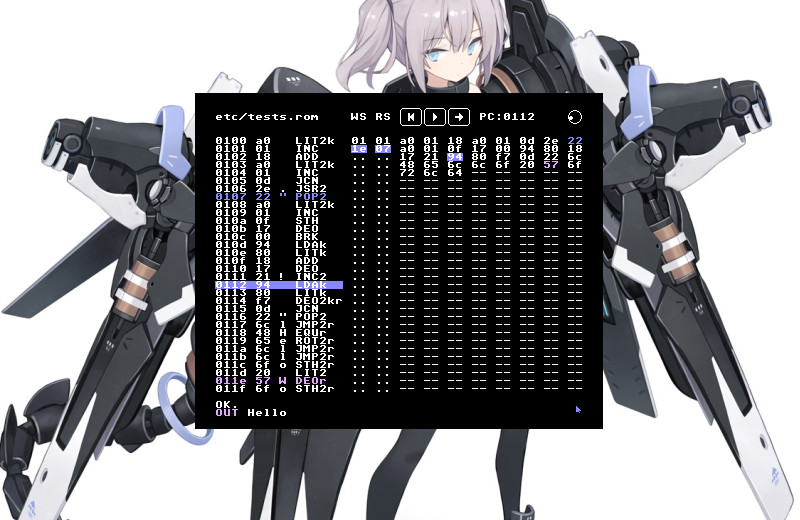
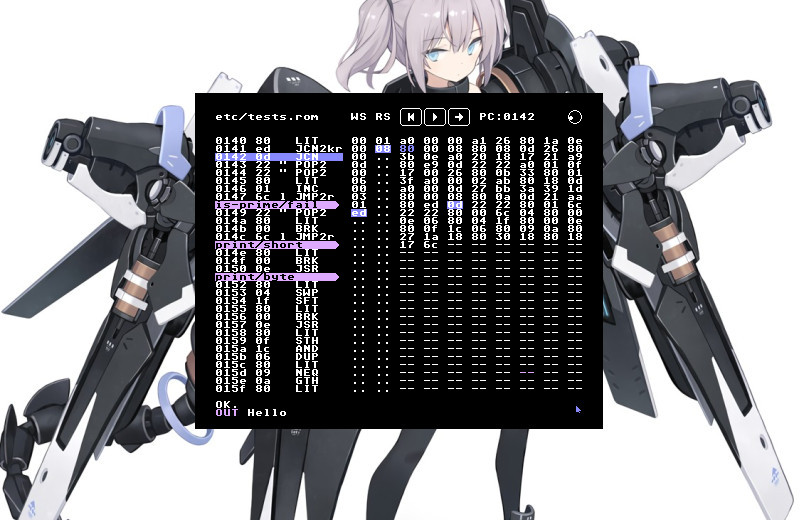
*

Changed region(s): [[0.25, 0.2769, 0.4688, 0.7692], [0.5, 0.2462, 0.75, 0.4923]]

diff --git a/site/libraries.html b/site/libraries.html
@@ -2,7 +2,7 @@
 <meta charset="utf-8"/><meta name="viewport" content="width=device-width, inital-scale=1"/><link href="../links/main.css" type="text/css" rel="stylesheet"/><link href="../media/services/icon.png" type="image/png" rel="shortcut icon"/>
 <title>XXIIVV &mdash; libraries</title></head><body>
 <header><a href="home.html"><img alt="XXIIVV" src="../media/icon/logo.svg"></a></header>
-<nav><ul><li><a href="physical.html">physical</a></li><li><a href="photography.html">photography</a></li><li><a href="illustration.html">illustration</a></li><li><a href="software.html" class="parent">software</a></li></ul><ul><li><a href="roms.html">roms</a></li><li><a href="tools.html">tools</a></li><li><a href="libraries.html" class="self">libraries</a></li><li><a href="formats.html">formats</a></li><li><a href="games.html">games</a></li><li><a href="toys.html">toys</a></li><li><a href="mobile.html">mobile</a></li><li><a href="unreleased.html">unreleased</a></li></ul><ul><li><a href="theme.html">theme</a></li><li><a href="snarf.html">snarf</a></li><li><a href="metadata.html">metadata</a></li><li><a href="manifest.html">manifest</a></li></ul></nav><main><h2>A collection of Varvara application support standards.</h2>
+<nav><ul><li><a href="physical.html">physical</a></li><li><a href="photography.html">photography</a></li><li><a href="illustration.html">illustration</a></li><li><a href="software.html" class="parent">software</a></li></ul><ul><li><a href="roms.html">roms</a></li><li><a href="tools.html">tools</a></li><li><a href="libraries.html" class="self">libraries</a></li><li><a href="formats.html">formats</a></li><li><a href="games.html">games</a></li><li><a href="toys.html">toys</a></li><li><a href="mobile.html">mobile</a></li><li><a href="unreleased.html">unreleased</a></li></ul><ul><li><a href="theme.html">theme</a></li><li><a href="snarf.html">snarf</a></li><li><a href="symbols.html">symbols</a></li><li><a href="metadata.html">metadata</a></li><li><a href="manifest.html">manifest</a></li></ul></nav><main><h2>A collection of Varvara application support standards.</h2>
 
 <p>This is a collection of various libraries used in the <a href='roms.html'>Varvara roms</a>.</p>
 <h2>Theme files are the interface customization standard for Varvara software.</h2>
@@ -82,6 +82,18 @@ JMP2r
 </pre>
 
 <q>Snarf is the term for Copy on the <a href='plan9.html'>Plan9</a> operating system. The operation is not to copy but to snarf. It's called snarf because snarf is what it does. There is no design document.</q>
+<h2>Symbol files are debug information about an assembled rom.</h2>
+
+<p>A symbols(*.sym) file contains a series of absolute addresses(2 bytes) and null-terminated strings. They are generated by Uxntal assemblers, such as <a href='drifblim.html'>Drifblim</a>, and are used by debugging tools, such as <a href='beetbug.html'>Beetbug</a>, which do not otherwise have access to a program's label.</p>
+
+<pre>
+0140 on-draw
+0142 on-draw/loop
+01a8 clip-tile
+01f2 ...
+</pre>
+
+
 <h2>Metadata exposes additional information about a Varvara rom.</h2>
 
 <p>An external program can find the location of a ROM's metadata, by forming a 16-bit address from the second and third bytes of a rom file. That program can verify that this is indeed a valid address by reading the subsequent 3 bytes which should <b>always</b> be <code>80 f0 37</code>.</p>

diff --git a/site/drifblim.html b/site/drifblim.html
@@ -4,7 +4,8 @@
 <header><a href="home.html"><img alt="XXIIVV" src="../media/icon/logo.svg"></a></header>
 <nav><ul><li><a href="uxntal.html" class="parent">uxntal</a></li><li><a href="varvara.html">varvara</a></li></ul><ul><li><a href="uxntal_cheatsheet.html">uxntal cheatsheet</a></li><li><a href="uxntal_reference.html">uxntal reference</a></li><li><a href="uxntal_library.html">uxntal library</a></li><li><a href="drifblim.html" class="self">drifblim</a></li><li><a href="beetbug.html">beetbug</a></li></ul><ul></ul></nav><main><h2>Drifblim is a Uxntal assembler, written in Uxntal.</h2>
 
-<p>The assembler is written in 400 lines of <a href='uxntal.html'>Uxntal</a>, it's designed to help bootstrap the Uxn ecosystem. The goal is for Driflim's source code to be released as a print-friendly document, along with its assembled hexadecimal data and the <i>napkin definition</i> of the <a href='uxn.html'>virtual machine</a>.</p>
+<p>The assembler is written in 400 lines of <a href='uxntal.html'>Uxntal</a>, and is designed to help bootstrap the <a href='uxn.html'>Uxn</a> ecosystem. Drifblim exports a <a href='symbols.html'>symbols file</a> that can be used with <a href='beetbug.html'>debuggers</a>.</p>
+<p>The goal is for Driflim's source code to be released as a print-friendly document, along with its assembled hexadecimal data and the <i>napkin definition</i> of the <a href='uxn.html'>virtual machine</a>.</p>
 
 <pre style='background:none;padding:0'>
 <b>80</b> a b c M[PC+1] <b>08</b> a b?c             <b>10</b> a b M[c8]      <b>18</b> a b+c
@@ -118,6 +119,6 @@ ff80 ef13 023a 396c 7c02 9a24 02b2 4002 bb26 02c4 2e02 f22c 02f2 3b02 f93a 0301
 	<li><a href='https://rabbits.srht.site/drifblim/drifblim.rom' target='_blank'>Download rom</a></li>
 </ul>
 
-<ul></ul><p><b>Incoming</b>: <a href="uxn_devlog.html">uxn devlog</a> <a href="oscean.html">oscean</a> </p></main>
+<ul></ul><p><b>Incoming</b>: <a href="symbols.html">symbols</a> <a href="uxn_devlog.html">uxn devlog</a> <a href="december_adventure.html">december adventure</a> <a href="oscean.html">oscean</a> </p></main>
 <footer><a href="https://creativecommons.org/licenses/by-nc-sa/4.0" target="_blank"><img src="../media/icon/cc.svg" alt="CreativeCommons"/></a> <a href="https://webring.xxiivv.com/" target="_blank"><img src="../media/icon/webring.svg" alt="Webring"/></a> <a href="https://merveilles.town/@neauoire" rel="me" target="_blank"><img src="../media/icon/merveilles.svg" alt="Merveilles"/></a> <a href="ethics.html"><img src="../media/icon/dreipfeile.svg" alt="NoNazis!"/></a> <a href="uxn.html"><img src="../media/icon/uxn.svg" alt="UxnPowered"/></a> <span><a href="devine_lu_linvega.html">Devine Lu Linvega</a> &copy; 2022 &mdash; <a href="about.html">BY-NC-SA 4.0</a></span></footer>
 </body></html>

diff --git a/site/uxn.html b/site/uxn.html
@@ -53,6 +53,6 @@
 	<li><a href='https://lists.sr.ht/~rabbits/uxn' target='_blank'>mailing list</a></li>
 </ul>
 
-<figure><img alt="Rostiger's Uxn Zine" src="../media/diary/804.jpg"/><figcaption>Rostiger's Uxn Zine</figcaption></figure><figure><img alt="The Sound Of Plumpkins" src="../media/diary/776.jpg"/><figcaption><a href="varvara.html">varvara</a> &mdash; The Sound Of Plumpkins</figcaption></figure><ul><li><code>15B13</code> &mdash; Uxn is born!</li></ul><p><b>Incoming</b>: <a href="dexe.html">dexe</a> <a href="tools.html">tools</a> <a href="ufx_format.html">ufx format</a> <a href="markl.html">markl</a> <a href="assembly.html">assembly</a> <a href="forth.html">forth</a> <a href="drifblim.html">drifblim</a> <a href="varvara.html">varvara</a> <a href="macintosh.html">macintosh</a> <a href="playdate.html">playdate</a> <a href="devlog.html">devlog</a> <a href="hundred_rabbits.html">hundred rabbits</a> </p></main>
+<figure><img alt="Rostiger's Uxn Zine" src="../media/diary/804.jpg"/><figcaption>Rostiger's Uxn Zine</figcaption></figure><figure><img alt="The Sound Of Plumpkins" src="../media/diary/776.jpg"/><figcaption><a href="varvara.html">varvara</a> &mdash; The Sound Of Plumpkins</figcaption></figure><ul><li><code>15B13</code> &mdash; Uxn is born!</li></ul><p><b>Incoming</b>: <a href="dexe.html">dexe</a> <a href="tools.html">tools</a> <a href="ufx_format.html">ufx format</a> <a href="markl.html">markl</a> <a href="assembly.html">assembly</a> <a href="forth.html">forth</a> <a href="drifblim.html">drifblim</a> <a href="drifblim.html">drifblim</a> <a href="varvara.html">varvara</a> <a href="macintosh.html">macintosh</a> <a href="playdate.html">playdate</a> <a href="devlog.html">devlog</a> <a href="hundred_rabbits.html">hundred rabbits</a> </p></main>
 <footer><a href="https://creativecommons.org/licenses/by-nc-sa/4.0" target="_blank"><img src="../media/icon/cc.svg" alt="CreativeCommons"/></a> <a href="https://webring.xxiivv.com/" target="_blank"><img src="../media/icon/webring.svg" alt="Webring"/></a> <a href="https://merveilles.town/@neauoire" rel="me" target="_blank"><img src="../media/icon/merveilles.svg" alt="Merveilles"/></a> <a href="ethics.html"><img src="../media/icon/dreipfeile.svg" alt="NoNazis!"/></a> <a href="uxn.html"><img src="../media/icon/uxn.svg" alt="UxnPowered"/></a> <span><a href="devine_lu_linvega.html">Devine Lu Linvega</a> &copy; 2022 &mdash; <a href="about.html">BY-NC-SA 4.0</a></span></footer>
 </body></html>

diff --git a/site/symbols.html b/site/symbols.html
@@ -1,0 +1,19 @@
+<!DOCTYPE html><html><head>
+<meta charset="utf-8"/><meta name="viewport" content="width=device-width, inital-scale=1"/><link href="../links/main.css" type="text/css" rel="stylesheet"/><link href="../media/services/icon.png" type="image/png" rel="shortcut icon"/>
+<title>XXIIVV &mdash; symbols</title></head><body>
+<header><a href="home.html"><img alt="XXIIVV" src="../media/icon/logo.svg"></a></header>
+<nav><ul><li><a href="roms.html">roms</a></li><li><a href="tools.html">tools</a></li><li><a href="libraries.html" class="parent">libraries</a></li><li><a href="formats.html">formats</a></li><li><a href="games.html">games</a></li><li><a href="toys.html">toys</a></li><li><a href="mobile.html">mobile</a></li><li><a href="unreleased.html">unreleased</a></li></ul><ul><li><a href="theme.html">theme</a></li><li><a href="snarf.html">snarf</a></li><li><a href="symbols.html" class="self">symbols</a></li><li><a href="metadata.html">metadata</a></li><li><a href="manifest.html">manifest</a></li></ul><ul></ul></nav><main><h2>Symbol files are debug information about an assembled rom.</h2>
+
+<p>A symbols(*.sym) file contains a series of absolute addresses(2 bytes) and null-terminated strings. They are generated by Uxntal assemblers, such as <a href='drifblim.html'>Drifblim</a>, and are used by debugging tools, such as <a href='beetbug.html'>Beetbug</a>, which do not otherwise have access to a program's label.</p>
+
+<pre>
+0140 on-draw
+0142 on-draw/loop
+01a8 clip-tile
+01f2 ...
+</pre>
+
+
+<ul></ul><p><b>Incoming</b>: <a href="drifblim.html">drifblim</a> <a href="beetbug.html">beetbug</a> </p></main>
+<footer><a href="https://creativecommons.org/licenses/by-nc-sa/4.0" target="_blank"><img src="../media/icon/cc.svg" alt="CreativeCommons"/></a> <a href="https://webring.xxiivv.com/" target="_blank"><img src="../media/icon/webring.svg" alt="Webring"/></a> <a href="https://merveilles.town/@neauoire" rel="me" target="_blank"><img src="../media/icon/merveilles.svg" alt="Merveilles"/></a> <a href="ethics.html"><img src="../media/icon/dreipfeile.svg" alt="NoNazis!"/></a> <a href="uxn.html"><img src="../media/icon/uxn.svg" alt="UxnPowered"/></a> <span><a href="devine_lu_linvega.html">Devine Lu Linvega</a> &copy; 2022 &mdash; <a href="about.html">BY-NC-SA 4.0</a></span></footer>
+</body></html>

diff --git a/site/metadata.html b/site/metadata.html
@@ -2,7 +2,7 @@
 <meta charset="utf-8"/><meta name="viewport" content="width=device-width, inital-scale=1"/><link href="../links/main.css" type="text/css" rel="stylesheet"/><link href="../media/services/icon.png" type="image/png" rel="shortcut icon"/>
 <title>XXIIVV &mdash; metadata</title></head><body>
 <header><a href="home.html"><img alt="XXIIVV" src="../media/icon/logo.svg"></a></header>
-<nav><ul><li><a href="roms.html">roms</a></li><li><a href="tools.html">tools</a></li><li><a href="libraries.html" class="parent">libraries</a></li><li><a href="formats.html">formats</a></li><li><a href="games.html">games</a></li><li><a href="toys.html">toys</a></li><li><a href="mobile.html">mobile</a></li><li><a href="unreleased.html">unreleased</a></li></ul><ul><li><a href="theme.html">theme</a></li><li><a href="snarf.html">snarf</a></li><li><a href="metadata.html" class="self">metadata</a></li><li><a href="manifest.html">manifest</a></li></ul><ul></ul></nav><main><figure><img alt="Maeve ROM Metadata" src="../media/diary/803.jpg"/><figcaption>Maeve ROM Metadata</figcaption></figure><h2>Metadata exposes additional information about a Varvara rom.</h2>
+<nav><ul><li><a href="roms.html">roms</a></li><li><a href="tools.html">tools</a></li><li><a href="libraries.html" class="parent">libraries</a></li><li><a href="formats.html">formats</a></li><li><a href="games.html">games</a></li><li><a href="toys.html">toys</a></li><li><a href="mobile.html">mobile</a></li><li><a href="unreleased.html">unreleased</a></li></ul><ul><li><a href="theme.html">theme</a></li><li><a href="snarf.html">snarf</a></li><li><a href="symbols.html">symbols</a></li><li><a href="metadata.html" class="self">metadata</a></li><li><a href="manifest.html">manifest</a></li></ul><ul></ul></nav><main><figure><img alt="Maeve ROM Metadata" src="../media/diary/803.jpg"/><figcaption>Maeve ROM Metadata</figcaption></figure><h2>Metadata exposes additional information about a Varvara rom.</h2>
 
 <p>An external program can find the location of a ROM's metadata, by forming a 16-bit address from the second and third bytes of a rom file. That program can verify that this is indeed a valid address by reading the subsequent 3 bytes which should <b>always</b> be <code>80 f0 37</code>.</p>
 

diff --git a/site/snarf.html b/site/snarf.html
@@ -2,7 +2,7 @@
 <meta charset="utf-8"/><meta name="viewport" content="width=device-width, inital-scale=1"/><link href="../links/main.css" type="text/css" rel="stylesheet"/><link href="../media/services/icon.png" type="image/png" rel="shortcut icon"/>
 <title>XXIIVV &mdash; snarf</title></head><body>
 <header><a href="home.html"><img alt="XXIIVV" src="../media/icon/logo.svg"></a></header>
-<nav><ul><li><a href="roms.html">roms</a></li><li><a href="tools.html">tools</a></li><li><a href="libraries.html" class="parent">libraries</a></li><li><a href="formats.html">formats</a></li><li><a href="games.html">games</a></li><li><a href="toys.html">toys</a></li><li><a href="mobile.html">mobile</a></li><li><a href="unreleased.html">unreleased</a></li></ul><ul><li><a href="theme.html">theme</a></li><li><a href="snarf.html" class="self">snarf</a></li><li><a href="metadata.html">metadata</a></li><li><a href="manifest.html">manifest</a></li></ul><ul></ul></nav><main><figure><img alt="Because snarf is what it does" src="../media/diary/054.jpg"/><figcaption>Because snarf is what it does</figcaption></figure><h2>Snarf files are the clipboard standard for Varvara software.</h2>
+<nav><ul><li><a href="roms.html">roms</a></li><li><a href="tools.html">tools</a></li><li><a href="libraries.html" class="parent">libraries</a></li><li><a href="formats.html">formats</a></li><li><a href="games.html">games</a></li><li><a href="toys.html">toys</a></li><li><a href="mobile.html">mobile</a></li><li><a href="unreleased.html">unreleased</a></li></ul><ul><li><a href="theme.html">theme</a></li><li><a href="snarf.html" class="self">snarf</a></li><li><a href="symbols.html">symbols</a></li><li><a href="metadata.html">metadata</a></li><li><a href="manifest.html">manifest</a></li></ul><ul></ul></nav><main><figure><img alt="Because snarf is what it does" src="../media/diary/054.jpg"/><figcaption>Because snarf is what it does</figcaption></figure><h2>Snarf files are the clipboard standard for Varvara software.</h2>
 
 <p>A <code>.snarf</code> file contains a clipboard buffer, programs will handle clipboard operations by writing to that external invisible file. You can see support overage <a href='roms.html'>here</a>.</p>
 

diff --git a/site/beetbug.html b/site/beetbug.html
@@ -6,7 +6,7 @@
 
 <p>Inspired from <a href='https://github.com/randrew/uxn32' target='_blank'>Uxn32</a>'s fantastic debugger, Beetbug is a step debugger for <a href='varvara.html'>Varvara</a>, written in <a href='uxntal.html'>Uxntal</a>. It is the perfect tool to step through a running program. It uses Varvara's <a href='varvara.html#console'>Console write port</a> to print debug to the interface, and the System's debug port to put a breakpoint.</p>
 
-<p>Beetbug will highlight both the return address on top of the return stack, and the address on top of the working stack, giving you a visual indication of the addresses that are being accessed.</p>
+<p>Beetbug supports <a href='symbols.html'>symbol files</a>, and will highlight both the return address on top of the return stack, and the address on top of the working stack, giving you a visual indication of the addresses that are being accessed.</p>
 
 <h3>Manual</h3>
 
@@ -33,6 +33,6 @@ uxnemu beetbug.rom some_project.rom
 	<li><a href='https://rabbits.srht.site/beetbug/beetbug.rom' target='_blank'>download rom</a>, 4kb</li>
 </ul>
 
-<ul></ul><p><b>Incoming</b>: <a href="roms.html">roms</a> <a href="december_adventure.html">december adventure</a> </p></main>
+<ul></ul><p><b>Incoming</b>: <a href="roms.html">roms</a> <a href="symbols.html">symbols</a> <a href="drifblim.html">drifblim</a> <a href="december_adventure.html">december adventure</a> </p></main>
 <footer><a href="https://creativecommons.org/licenses/by-nc-sa/4.0" target="_blank"><img src="../media/icon/cc.svg" alt="CreativeCommons"/></a> <a href="https://webring.xxiivv.com/" target="_blank"><img src="../media/icon/webring.svg" alt="Webring"/></a> <a href="https://merveilles.town/@neauoire" rel="me" target="_blank"><img src="../media/icon/merveilles.svg" alt="Merveilles"/></a> <a href="ethics.html"><img src="../media/icon/dreipfeile.svg" alt="NoNazis!"/></a> <a href="uxn.html"><img src="../media/icon/uxn.svg" alt="UxnPowered"/></a> <span><a href="devine_lu_linvega.html">Devine Lu Linvega</a> &copy; 2022 &mdash; <a href="about.html">BY-NC-SA 4.0</a></span></footer>
 </body></html>

diff --git a/site/theme.html b/site/theme.html
@@ -2,7 +2,7 @@
 <meta charset="utf-8"/><meta name="viewport" content="width=device-width, inital-scale=1"/><link href="../links/main.css" type="text/css" rel="stylesheet"/><link href="../media/services/icon.png" type="image/png" rel="shortcut icon"/>
 <title>XXIIVV &mdash; theme</title></head><body>
 <header><a href="home.html"><img alt="XXIIVV" src="../media/icon/logo.svg"></a></header>
-<nav><ul><li><a href="roms.html">roms</a></li><li><a href="tools.html">tools</a></li><li><a href="libraries.html" class="parent">libraries</a></li><li><a href="formats.html">formats</a></li><li><a href="games.html">games</a></li><li><a href="toys.html">toys</a></li><li><a href="mobile.html">mobile</a></li><li><a href="unreleased.html">unreleased</a></li></ul><ul><li><a href="theme.html" class="self">theme</a></li><li><a href="snarf.html">snarf</a></li><li><a href="metadata.html">metadata</a></li><li><a href="manifest.html">manifest</a></li></ul><ul></ul></nav><main><figure><img alt="Uxn Theming" src="../media/diary/340.jpg"/><figcaption>Uxn Theming</figcaption></figure><h2>Theme files are the interface customization standard for Varvara software.</h2>
+<nav><ul><li><a href="roms.html">roms</a></li><li><a href="tools.html">tools</a></li><li><a href="libraries.html" class="parent">libraries</a></li><li><a href="formats.html">formats</a></li><li><a href="games.html">games</a></li><li><a href="toys.html">toys</a></li><li><a href="mobile.html">mobile</a></li><li><a href="unreleased.html">unreleased</a></li></ul><ul><li><a href="theme.html" class="self">theme</a></li><li><a href="snarf.html">snarf</a></li><li><a href="symbols.html">symbols</a></li><li><a href="metadata.html">metadata</a></li><li><a href="manifest.html">manifest</a></li></ul><ul></ul></nav><main><figure><img alt="Uxn Theming" src="../media/diary/340.jpg"/><figcaption>Uxn Theming</figcaption></figure><h2>Theme files are the interface customization standard for Varvara software.</h2>
 
 <p>A <code>.theme</code> file begins with 6 bytes equal to the RGB values of 4 colors. You can see support overage <a href='roms.html'>here</a>.</p>
 

diff --git a/site/manifest.html b/site/manifest.html
@@ -2,7 +2,7 @@
 <meta charset="utf-8"/><meta name="viewport" content="width=device-width, inital-scale=1"/><link href="../links/main.css" type="text/css" rel="stylesheet"/><link href="../media/services/icon.png" type="image/png" rel="shortcut icon"/>
 <title>XXIIVV &mdash; manifest</title></head><body>
 <header><a href="home.html"><img alt="XXIIVV" src="../media/icon/logo.svg"></a></header>
-<nav><ul><li><a href="roms.html">roms</a></li><li><a href="tools.html">tools</a></li><li><a href="libraries.html" class="parent">libraries</a></li><li><a href="formats.html">formats</a></li><li><a href="games.html">games</a></li><li><a href="toys.html">toys</a></li><li><a href="mobile.html">mobile</a></li><li><a href="unreleased.html">unreleased</a></li></ul><ul><li><a href="theme.html">theme</a></li><li><a href="snarf.html">snarf</a></li><li><a href="metadata.html">metadata</a></li><li><a href="manifest.html" class="self">manifest</a></li></ul><ul></ul></nav><main><h2>Manifest exposes a Varvara rom's controls.</h2>
+<nav><ul><li><a href="roms.html">roms</a></li><li><a href="tools.html">tools</a></li><li><a href="libraries.html" class="parent">libraries</a></li><li><a href="formats.html">formats</a></li><li><a href="games.html">games</a></li><li><a href="toys.html">toys</a></li><li><a href="mobile.html">mobile</a></li><li><a href="unreleased.html">unreleased</a></li></ul><ul><li><a href="theme.html">theme</a></li><li><a href="snarf.html">snarf</a></li><li><a href="symbols.html">symbols</a></li><li><a href="metadata.html">metadata</a></li><li><a href="manifest.html" class="self">manifest</a></li></ul><ul></ul></nav><main><h2>Manifest exposes a Varvara rom's controls.</h2>
 
 <p>A manifest is a format for allowing Varvara applications to specify what menubar options it provides.</p>
 

diff --git a/src/htm/drifblim.htm b/src/htm/drifblim.htm
@@ -1,6 +1,7 @@
 <h2>Drifblim is a Uxntal assembler, written in Uxntal.</h2>
 
-<p>The assembler is written in 400 lines of <a href='uxntal.html'>Uxntal</a>, it's designed to help bootstrap the Uxn ecosystem. The goal is for Driflim's source code to be released as a print-friendly document, along with its assembled hexadecimal data and the <i>napkin definition</i> of the <a href='uxn.html'>virtual machine</a>.</p>
+<p>The assembler is written in 400 lines of <a href='uxntal.html'>Uxntal</a>, and is designed to help bootstrap the <a href='uxn.html'>Uxn</a> ecosystem. Drifblim exports a <a href='symbols.html'>symbols file</a> that can be used with <a href='beetbug.html'>debuggers</a>.</p>
+<p>The goal is for Driflim's source code to be released as a print-friendly document, along with its assembled hexadecimal data and the <i>napkin definition</i> of the <a href='uxn.html'>virtual machine</a>.</p>
 
 <pre style='background:none;padding:0'>
 <b>80</b> a b c M[PC+1] <b>08</b> a b?c             <b>10</b> a b M[c8]      <b>18</b> a b+c

diff --git a/site/december_adventure.html b/site/december_adventure.html
@@ -27,6 +27,9 @@
 <img src='https://assets.merveilles.town/media_attachments/files/109/475/471/743/227/577/original/8b487fabb07ae152.png'/>
 <p><code>07 DEC</code> I realized that I might have built something invaluable yesterday with the native implementation of <a href='beetbug.html'>Beetbug</a>, I've spent my morning adding controller input and breakpoints to this little rom which will now be part of my permanent collection of utilities.</p>
 
+<img src='https://assets.merveilles.town/media_attachments/files/109/481/883/043/327/974/original/c582880182bb685a.png'/>
+<p><code>08 DEC</code> I wanted to push this little debugger further yet, but to do so, I had to make <a href='drifblim.html'>Drifblim</a> write a symbol file, and Beetbug read it. The running program's instructions are now addorned by little labels from the assembly file.</p>
+
 <q><b>Ure suffix</b>, forming nouns denoting an action, process, or result.</q>
 
 <ul></ul></main>

diff --git a/src/htm/december_adventure.htm b/src/htm/december_adventure.htm
@@ -23,5 +23,8 @@
 <img src='https://assets.merveilles.town/media_attachments/files/109/475/471/743/227/577/original/8b487fabb07ae152.png'/>
 <p><code>07 DEC</code> I realized that I might have built something invaluable yesterday with the native implementation of <a href='beetbug.html'>Beetbug</a>, I've spent my morning adding controller input and breakpoints to this little rom which will now be part of my permanent collection of utilities.</p>
 
+<img src='https://assets.merveilles.town/media_attachments/files/109/481/883/043/327/974/original/c582880182bb685a.png'/>
+<p><code>08 DEC</code> I wanted to push this little debugger further yet, but to do so, I had to make <a href='drifblim.html'>Drifblim</a> write a symbol file, and Beetbug read it. The running program's instructions are now addorned by little labels from the assembly file.</p>
+
 <q><b>Ure suffix</b>, forming nouns denoting an action, process, or result.</q>
 
